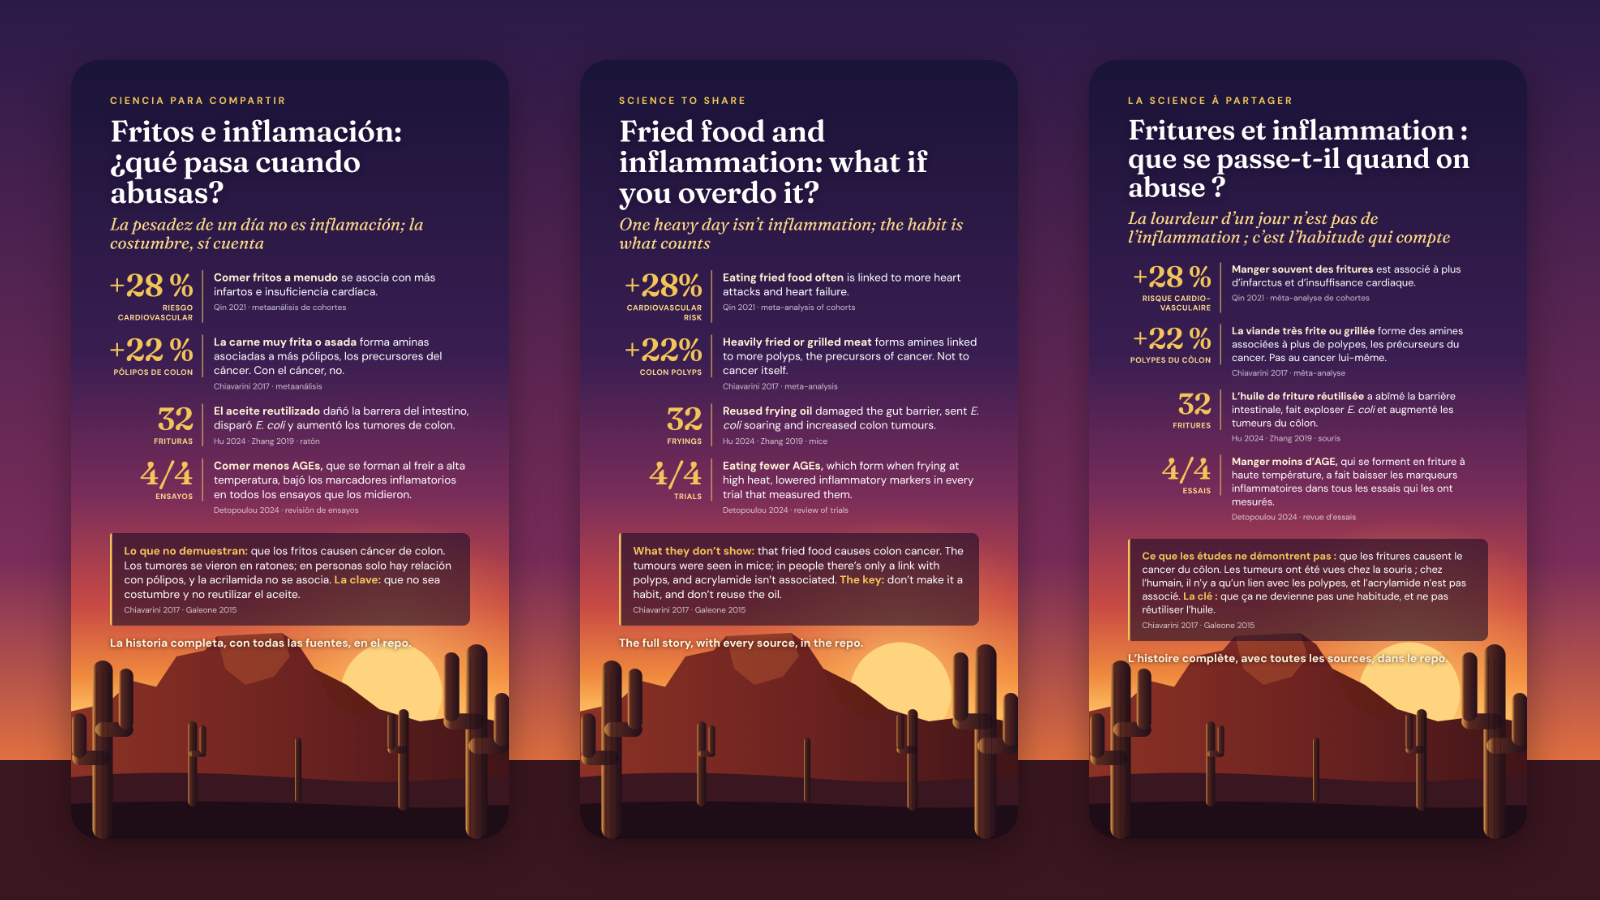
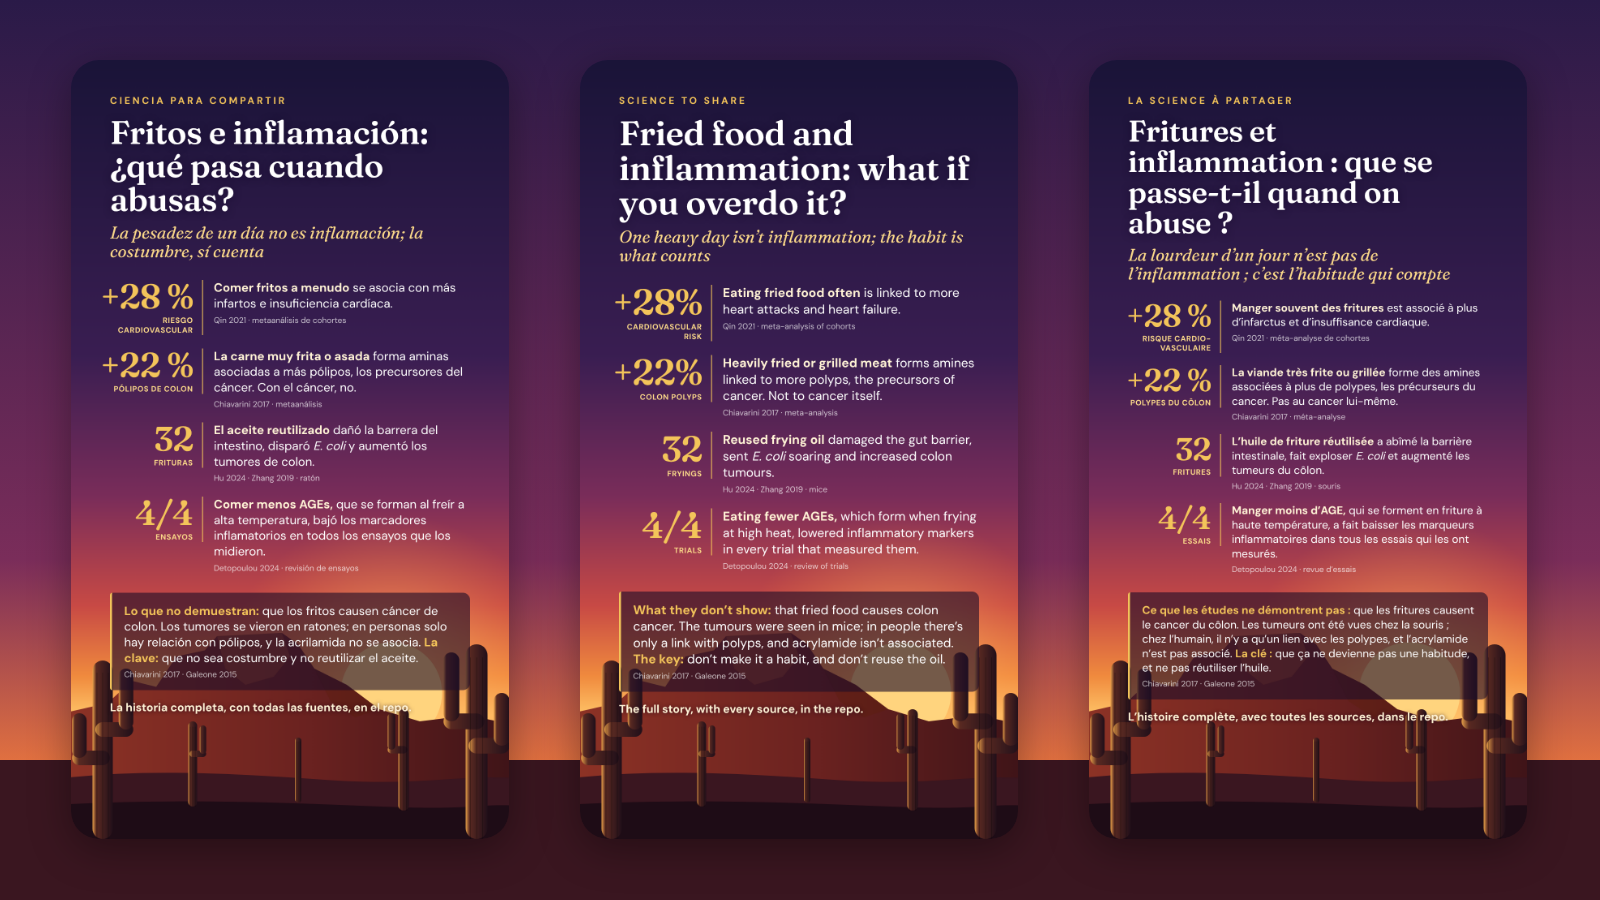
Fritos: el texto de la story usa más altura (LIMIT por tema en render_desierto) y título FR sin corte ante «:»
Claude-Session: https://claude.ai/code/session_01WZ345H3rsWUmbyjoNJgkfT

Changed region(s): [[0.6875, 0.1244, 0.9375, 0.8089], [0.375, 0.1244, 0.625, 0.8089], [0.0625, 0.1244, 0.3125, 0.8089]]

diff --git a/tools/story_fritos.py b/tools/story_fritos.py
@@ -4,6 +4,9 @@ La historia completa, con todos los datos y la regulación, va en la página del
 
 N = " "
 
+# Sin franja reservada para el sticker: el texto baja hasta las rocas.
+LIMIT = 1660
+
 DESIERTO = {
     "es": {
         "eyebrow": "Ciencia para compartir",
@@ -43,7 +46,7 @@ DESIERTO = {
     },
     "fr": {
         "eyebrow": "La science à partager",
-        "title": "Fritures et inflammation : que se passe-t-il quand on abuse ?",
+        "title": "Fritures et inflammation : que se passe-t-il quand on abuse ?",
         "sub": "La lourdeur d’un jour n’est pas de l’inflammation ; c’est l’habitude qui compte",
         "stops": [
             (f"+28{N}%", "risque cardio-vasculaire", "**Manger souvent des fritures** est associé à plus d’infarctus et d’insuffisance cardiaque.",

diff --git a/tools/render_desierto.py b/tools/render_desierto.py
@@ -114,7 +114,8 @@ h1{{font-family:'Fraunces',serif;font-weight:600;font-size:var(--h1,84px);line-h
 
 
 # Límite inferior del texto: deja libre la franja de roca para el sticker de enlace.
-LIMIT = 1470
+# Un tema puede subirlo (LIMIT en su módulo) si no necesita la franja libre, para que el texto use más altura.
+LIMIT = getattr(importlib.import_module(sys.argv[2]), 'LIMIT', 1470)
 
 
 async def main():
